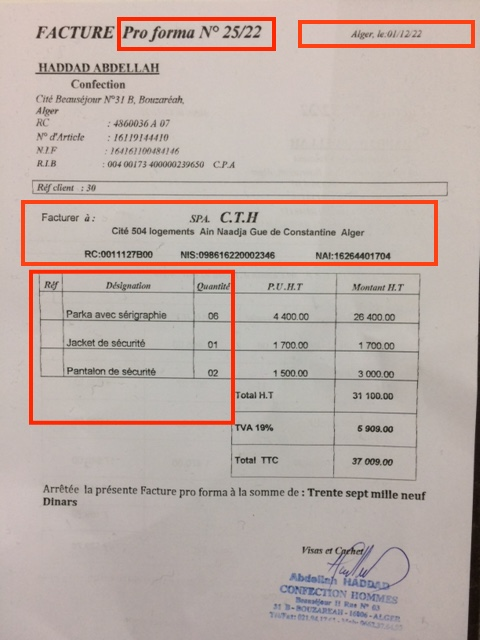
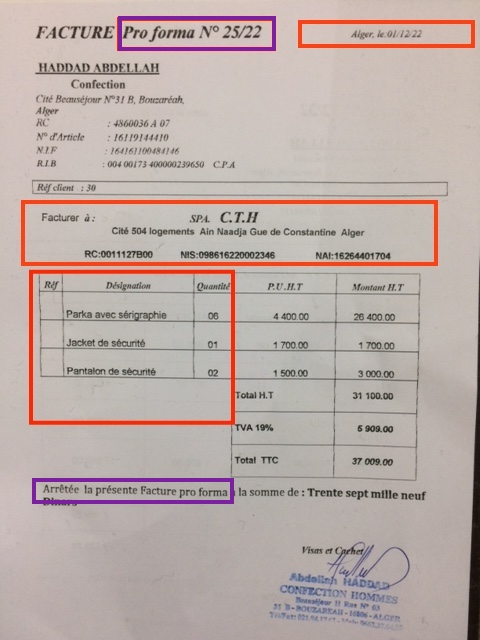
number to letter

Changed region(s): [[0.0625, 0.7188, 0.5, 0.8125], [0.2188, 0.0, 0.5938, 0.0938], [0.3125, 0.7188, 0.3438, 0.75]]

diff --git a/FactureEdit-main/functions.js b/FactureEdit-main/functions.js
@@ -3,3 +3,123 @@ function dateFormat (inputDate)
     let rawDate = new Date(Date.parse(inputDate))
     return `${rawDate.getDate()}/${rawDate.getMonth() > 8 ? '' : 0}${rawDate.getMonth() + 1}/${rawDate.getFullYear()}`
 }
+function NumberToLetter(nombre, U=null, D=null) {
+            
+    var letter = {
+        0: "zéro",
+        1: "un",
+        2: "deux",
+        3: "trois",
+        4: "quatre",
+        5: "cinq",
+        6: "six",
+        7: "sept",
+        8: "huit",
+        9: "neuf",
+        10: "dix",
+        11: "onze",
+        12: "douze",
+        13: "treize",
+        14: "quatorze",
+        15: "quinze",
+        16: "seize",
+        17: "dix-sept",
+        18: "dix-huit",
+        19: "dix-neuf",
+        20: "vingt",
+        30: "trente",
+        40: "quarante",
+        50: "cinquante",
+        60: "soixante",
+        70: "soixante-dix",
+        80: "quatre-vingt",
+        90: "quatre-vingt-dix",
+    };
+    
+    var i, j, n, quotient, reste, nb;
+    var ch
+    var numberToLetter = '';
+    //__________________________________
+
+    if (nombre.toString().replace(/ /gi, "").length > 15) return "dépassement de capacité";
+    if (isNaN(nombre.toString().replace(/ /gi, ""))) return "Nombre non valide";
+
+    nb = parseFloat(nombre.toString().replace(/ /gi, ""));
+    //if (Math.ceil(nb) != nb) return "Nombre avec virgule non géré.";
+    if(Math.ceil(nb) != nb){
+        nb = nombre.toString().split('.');
+        //return NumberToLetter(nb[0]) + " virgule " + NumberToLetter(nb[1]);
+        return NumberToLetter(nb[0]) + (U ? " " + U + " et " : " virgule ") + NumberToLetter(nb[1]) + (D ? " " + D : "");
+    }
+    
+    n = nb.toString().length;
+    switch (n) {
+        case 1:
+            numberToLetter = letter[nb];
+            break;
+        case 2:
+            if (nb > 19) {
+                quotient = Math.floor(nb / 10);
+                reste = nb % 10;
+                if (nb < 71 || (nb > 79 && nb < 91)) {
+                    if (reste == 0) numberToLetter = letter[quotient * 10];
+                    if (reste == 1) numberToLetter = letter[quotient * 10] + "-et-" + letter[reste];
+                    if (reste > 1) numberToLetter = letter[quotient * 10] + "-" + letter[reste];
+                } else numberToLetter = letter[(quotient - 1) * 10] + "-" + letter[10 + reste];
+            } else numberToLetter = letter[nb];
+            break;
+        case 3:
+            quotient = Math.floor(nb / 100);
+            reste = nb % 100;
+            if (quotient == 1 && reste == 0) numberToLetter = "cent";
+            if (quotient == 1 && reste != 0) numberToLetter = "cent" + " " + NumberToLetter(reste);
+            if (quotient > 1 && reste == 0) numberToLetter = letter[quotient] + " cents";
+            if (quotient > 1 && reste != 0) numberToLetter = letter[quotient] + " cent " + NumberToLetter(reste);
+            break;
+        case 4 :
+        case 5 :
+        case 6 :
+            quotient = Math.floor(nb / 1000);
+            reste = nb - quotient * 1000;
+            if (quotient == 1 && reste == 0) numberToLetter = "mille";
+            if (quotient == 1 && reste != 0) numberToLetter = "mille" + " " + NumberToLetter(reste);
+            if (quotient > 1 && reste == 0) numberToLetter = NumberToLetter(quotient) + " mille";
+            if (quotient > 1 && reste != 0) numberToLetter = NumberToLetter(quotient) + " mille " + NumberToLetter(reste);
+            break;
+        case 7:
+        case 8:
+        case 9:
+            quotient = Math.floor(nb / 1000000);
+            reste = nb % 1000000;
+            if (quotient == 1 && reste == 0) numberToLetter = "un million";
+            if (quotient == 1 && reste != 0) numberToLetter = "un million" + " " + NumberToLetter(reste);
+            if (quotient > 1 && reste == 0) numberToLetter = NumberToLetter(quotient) + " millions";
+            if (quotient > 1 && reste != 0) numberToLetter = NumberToLetter(quotient) + " millions " + NumberToLetter(reste);
+            break;
+        case 10:
+        case 11:
+        case 12:
+            quotient = Math.floor(nb / 1000000000);
+            reste = nb - quotient * 1000000000;
+            if (quotient == 1 && reste == 0) numberToLetter = "un milliard";
+            if (quotient == 1 && reste != 0) numberToLetter = "un milliard" + " " + NumberToLetter(reste);
+            if (quotient > 1 && reste == 0) numberToLetter = NumberToLetter(quotient) + " milliards";
+            if (quotient > 1 && reste != 0) numberToLetter = NumberToLetter(quotient) + " milliards " + NumberToLetter(reste);
+            break;
+        case 13:
+        case 14:
+        case 15:
+            quotient = Math.floor(nb / 1000000000000);
+            reste = nb - quotient * 1000000000000;
+            if (quotient == 1 && reste == 0) numberToLetter = "un billion";
+            if (quotient == 1 && reste != 0) numberToLetter = "un billion" + " " + NumberToLetter(reste);
+            if (quotient > 1 && reste == 0) numberToLetter = NumberToLetter(quotient) + " billions";
+            if (quotient > 1 && reste != 0) numberToLetter = NumberToLetter(quotient) + " billions " + NumberToLetter(reste);
+            break;
+    }//fin switch
+    /*respect de l'accord de quatre-vingt*/
+    if (numberToLetter.substr(numberToLetter.length - "quatre-vingt".length, "quatre-vingt".length) == "quatre-vingt") numberToLetter = numberToLetter + "s";
+
+    return numberToLetter;
+
+}

diff --git a/FactureEdit-main/handle.js b/FactureEdit-main/handle.js
@@ -32,6 +32,7 @@ document
 
 //Items section
 let totalPrice = 0
+let ref = 0
 const itemsListElement = document.getElementById('tbody')
 
 // Add item on the document
@@ -40,13 +41,13 @@ document
 	.addEventListener('click', function ()
 	{
 		const itemToAdd = new Item
+		ref+=1
 
 		let itemInfos = document.getElementsByName("addItem")
 
 		itemToAdd.name = itemInfos[0].value
 		itemToAdd.quantity = itemInfos[1].value
 		let itemPrice = itemInfos[2].value
-		let itemTax = 19 / 100
 		let Montant=itemPrice * itemToAdd.quantity
 		//itemToAdd.uPriceHT = Math.round((itemPrice * (1 - itemTax)) * 100) / 100
 		//let itemPriceTAX = Math.round((itemToAdd.uPriceHT / 0.78 + Number.EPSILON) * 100) / 100
@@ -59,6 +60,8 @@ document
 		//P.U.H.T
 		//mnontant H.T
 		newItemElement.innerHTML = `<div class="itemDescription">
+		<p>${ref}</span>
+		</p></div>
 			<p>${itemToAdd.name}</span>
 			</p></div>
 			<div class="msmaller center">${itemToAdd.quantity}</div>
@@ -71,14 +74,16 @@ document
 		//totalPrice += parseInt(itemToAdd.uPriceHT * itemToAdd.quantity * 100)
 		//let TTCPrice = Math.round((totalPrice / 100 / 0.78 + Number.EPSILON) * 100) / 100
 		totalPrice += Montant
+		
 		//document.getElementById('HTtoTTC').innerHTML = totalPrice 
 		//Total H.T
 		document
 			.getElementById('tot')
 			.innerHTML = totalPrice
 
-		let totTTC=Math.round((totalPrice * (1 - itemTax)) * 100) / 100	
-		let TVA=totalPrice-totTTC	
+		let TVA=Math.round((totalPrice * (19 / 100))) 
+		let totTTC=	totalPrice+TVA	
+		
 		document
 			.getElementById('TVA')
 			.innerHTML = TVA
@@ -88,6 +93,7 @@ document
 			.innerHTML = totTTC
 		// Add item to document
 		FactureActuelle.addItem(itemToAdd)
+		document.getElementById('somme').innerHTML = '<p>'+'Arrêtée la présente Facture pro forma à la somme de:'+NumberToLetter(totTTC)+ '</p>'
 	})
 
 // Export html document in its current state

diff --git a/FactureEdit-main/index.html b/FactureEdit-main/index.html
@@ -58,7 +58,9 @@
 						</div>
 					</div>
 					<div id="clauses">
-						<p>Arrêtée la présente Facture pro forma à la somme de:<br/>
+						<p id="somme"></p>
+							
+							<br/>
 						<p>Visas et Cachet</p>
 					</div>
 				</aside>
